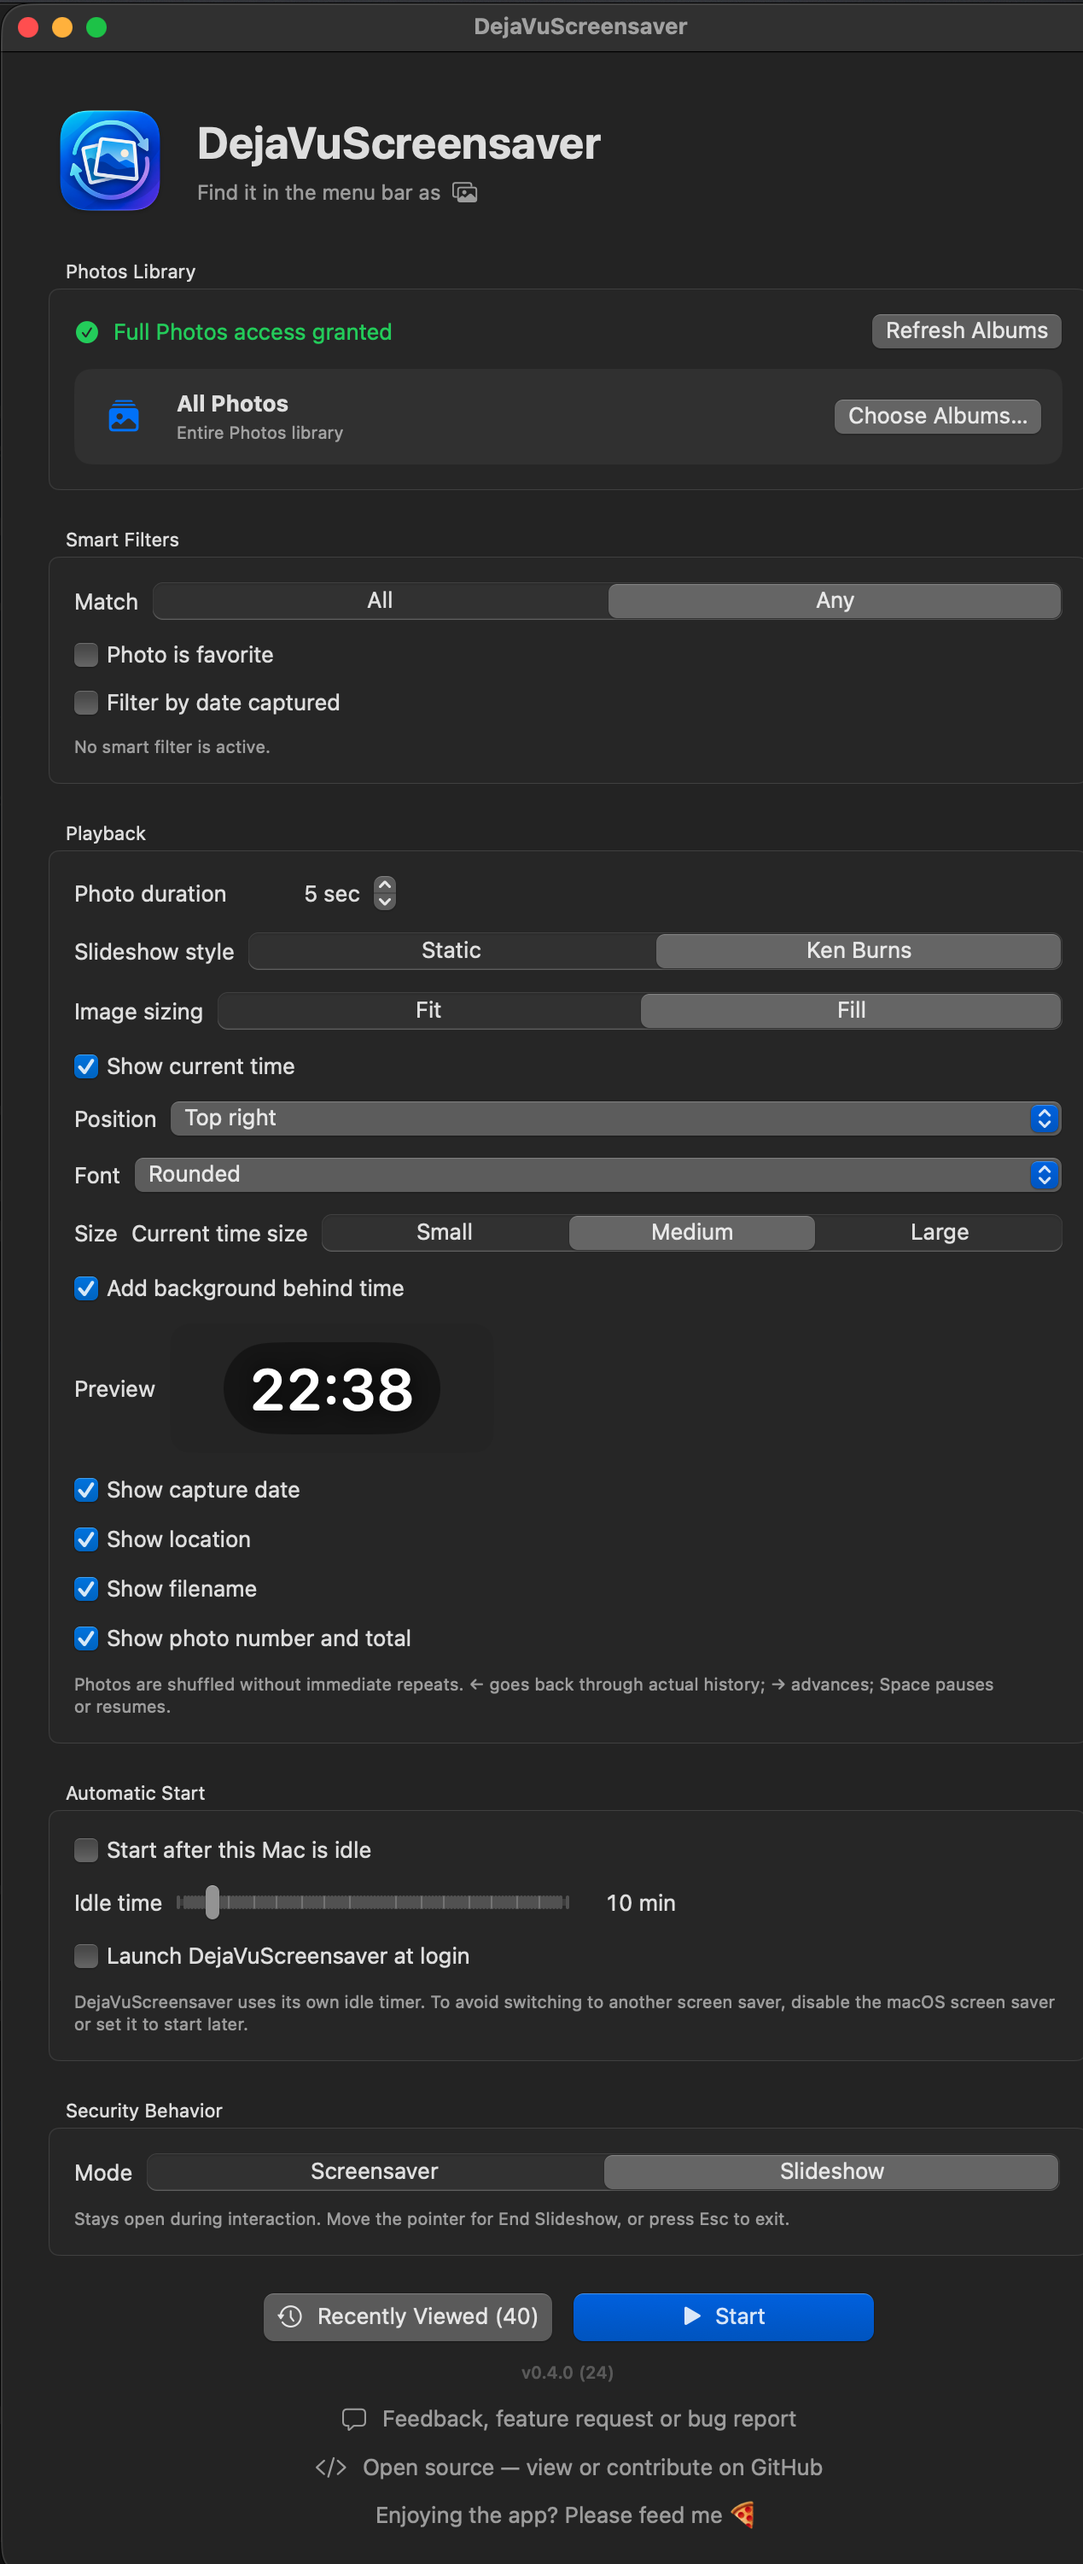
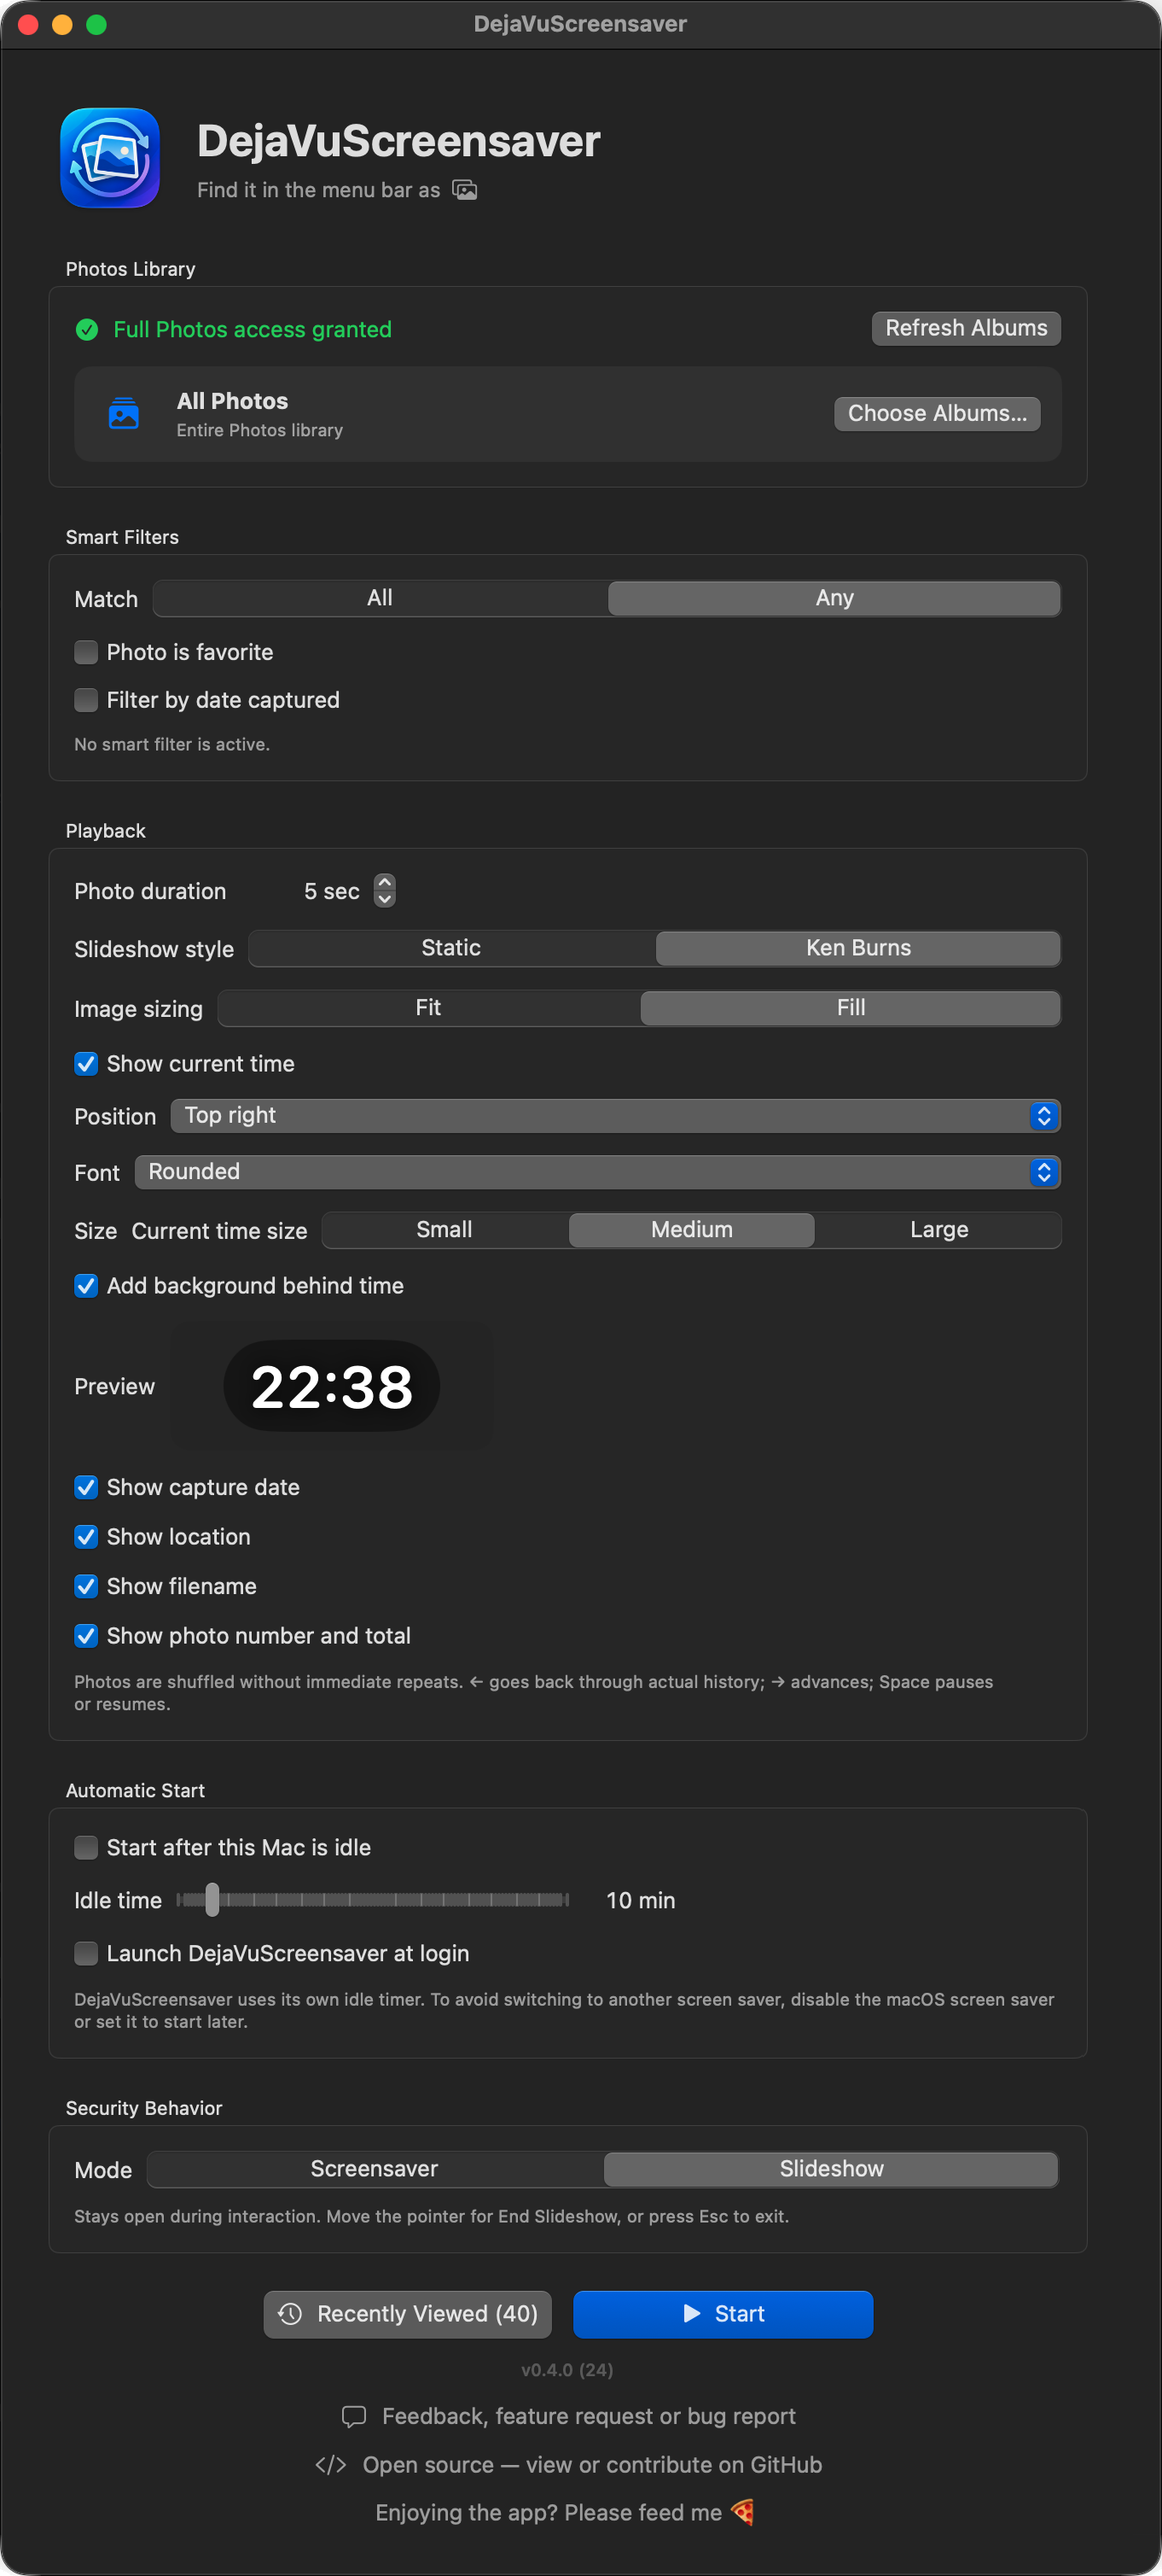
Settings window: clean edges from green-screen shot, real size, cleaner frame

diff --git a/styles.css b/styles.css
@@ -105,11 +105,10 @@ kbd { padding: .1em .42em; border: 1px solid #44464d; border-bottom-width: 2px; 
 .key-space { left: 30.1%; top: 83.4%; width: 33.1%; height: 13.4%; display: flex; gap: 2px; }
 .key-left { left: 79.5%; top: 83.4%; width: 6.05%; height: 13.4%; }
 .key-right { left: 93.1%; top: 83.4%; width: 5.9%; height: 13.4%; }
-.real-settings { width: min(100%, 635px); margin: 160px auto 0; }
+.real-settings { width: min(100%, 681px); margin: 160px auto 0; }
 .real-settings figcaption { margin-bottom: 20px; color: #777981; font-size: 12px; text-align: center; }
-.real-settings-window { position: relative; overflow: hidden; border: 1px solid rgba(255,255,255,.24); border-radius: 12px; background: #242529; box-shadow: 0 22px 70px rgba(0,0,0,.55), 0 1px rgba(255,255,255,.1) inset; }
-.real-settings-window::after { position: absolute; inset: 0; border-radius: inherit; box-shadow: 0 0 0 1px rgba(0,0,0,.28) inset, 0 1px rgba(255,255,255,.08) inset; content: ""; pointer-events: none; }
-.real-settings img { width: 100%; display: block; }
+.real-settings-window { position: relative; border-radius: 16px; box-shadow: 0 22px 70px rgba(0,0,0,.55); }
+.real-settings img { width: 100%; height: auto; display: block; }
 .settings-reveal { position: relative; }
 .mac-menubar { position: relative; z-index: 2; height: 29px; margin-bottom: 12px; display: flex; align-items: center; justify-content: flex-end; gap: 20px; padding-right: 6px; color: #fff; font: 500 13px/1 -apple-system, BlinkMacSystemFont, "SF Pro Text", "Helvetica Neue", sans-serif; }
 .mac-menubar img { display: block; }

diff --git a/index.html b/index.html
@@ -7,7 +7,7 @@
   <meta name="theme-color" content="#08090c">
   <title>DejaVuScreensaver — Turn your Mac’s screen into a living photo album</title>
   <link rel="icon" href="assets/app-icon.png">
-  <link rel="stylesheet" href="styles.css?v=2026101311">
+  <link rel="stylesheet" href="styles.css?v=2026101312">
 </head>
 <body>
   <header class="nav shell">
@@ -123,7 +123,7 @@
           </div>
           <img class="mb-cursor" src="assets/mb-cursor.png" alt="" aria-hidden="true">
           <div class="real-settings-window">
-            <img src="assets/settings-window.png" alt="Complete DejaVuScreensaver settings window with Photos Library, playback, automatic start and security controls">
+            <img src="assets/settings-window.png" width="1362" height="3017" alt="Complete DejaVuScreensaver settings window with Photos Library, playback, automatic start and security controls">
           </div>
         </div>
       </figure>
@@ -225,6 +225,6 @@
 
   <p class="asset-credit shell">Keyboard image: Fletcher / AGreuet, <a href="https://commons.wikimedia.org/wiki/File:Apple_Magic_Keyboard_-_US_remix_transparent.png">CC BY 4.0</a>; cropped in the page layout.</p>
 
-  <script src="script.js?v=2026101311"></script>
+  <script src="script.js?v=2026101312"></script>
 </body>
 </html>
